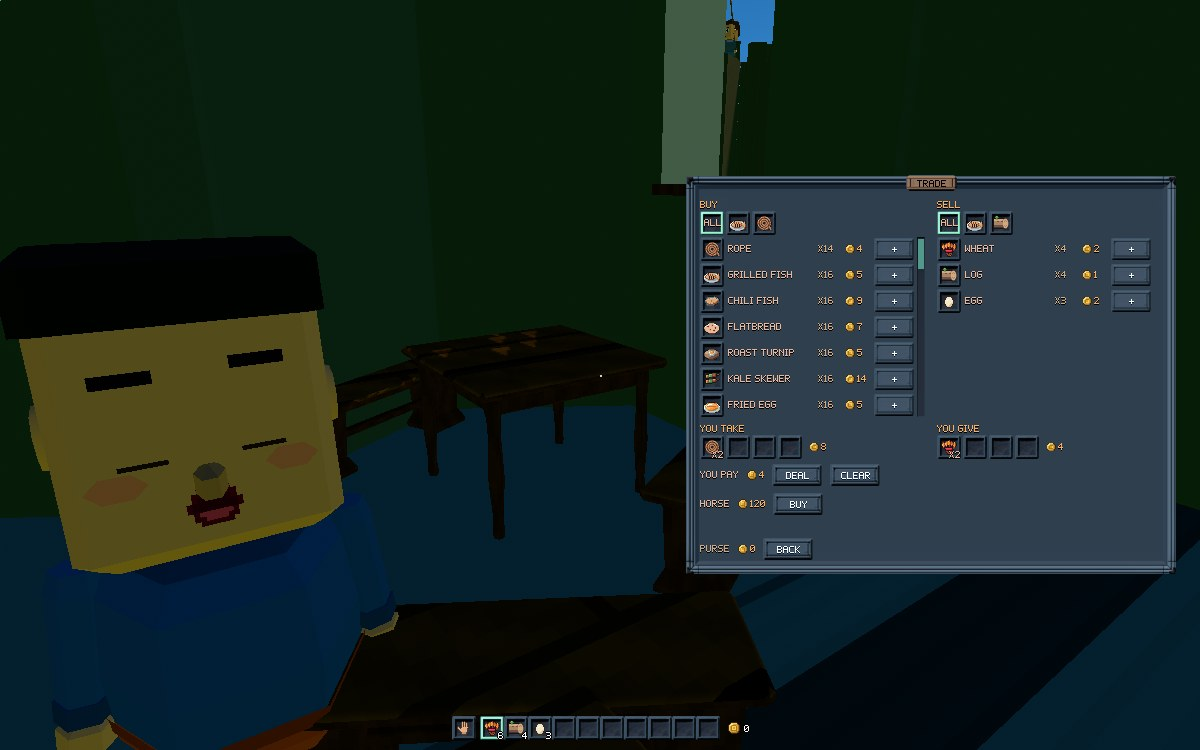
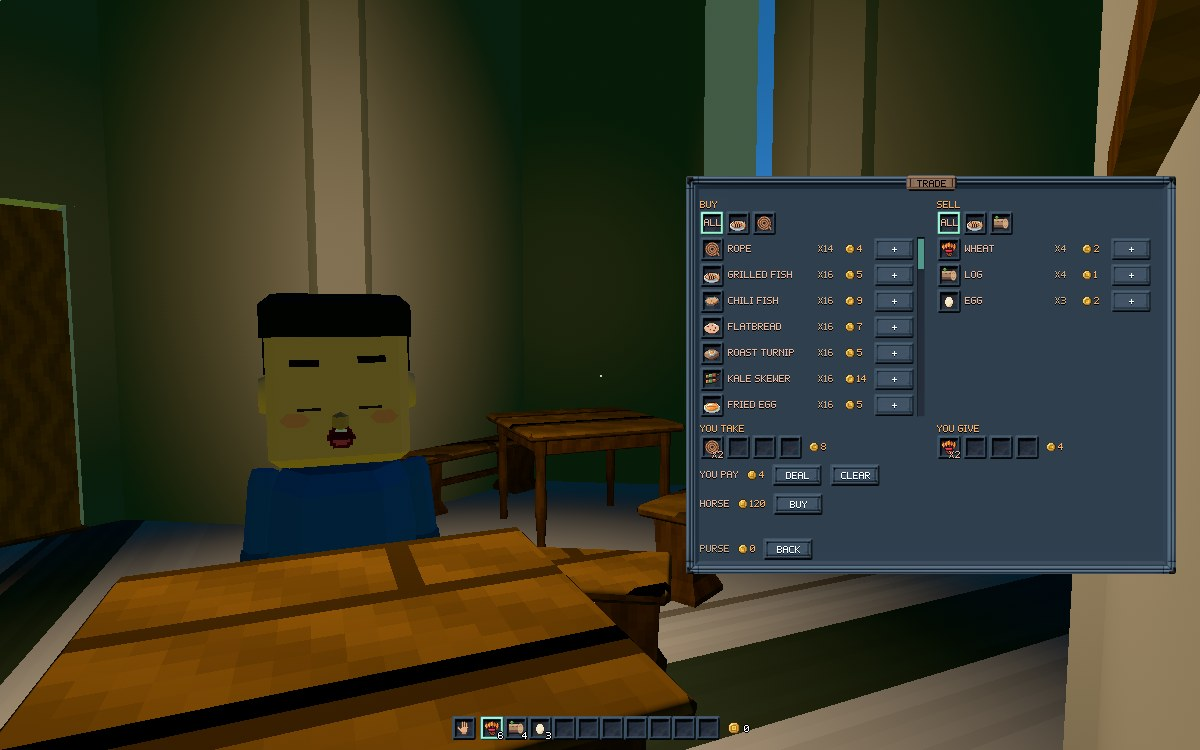
townsfolk 37a framing, second pass: captures at a talking distance, by day and at nightfall
trade-framed.jpg retaken from about 2.7 m with the merchant in the middle of
the open space, trade-framed-night.jpg and talk-framed-night.jpg (a non-trade
NPC dialog) at 20:27 with the talk light on the merchant's face. Not at
22:30: from daylight 0.12 the townsfolk are in bed (furniture design 11a), so
there is no one at the stall. Lavapipe, no GPU; frame time not measured.

Claude-Session: https://claude.ai/code/session_01RGPQut43HZDbTofZKV6sxg

diff --git a/openspec/changes/townsfolk/tasks.md b/openspec/changes/townsfolk/tasks.md
@@ -104,7 +104,7 @@ towns mockup is on the roadmap (the owner, 2026-09-27).
 - [x] 12.5 Traders sell tools or not, per survey E1: answered 2026-11-22, no basic tools; enchanted tools and special weapons later (design 38c). Today's game already sells none.
 - [ ] 12.6 Traders' Tools shelf: enchanted tools and special weapons with their bonuses (such as +1 mining speed, +1 yield), per survey E1. Waits for a write-up of enchantments and weapons (weapons tie to survival, phase 4, `survival-mode`). Verify: that write-up exists and names the trader's stock.
 - [x] 12.7 Framing (owner, survey P1, 2026-11-24: "Move the camera so the merchant is on left, and the trade UI is on the right"; design 37a, framing): the Talk, Trade and Board panels sit on the right, and opening a talk turns the walker's look, eased over 0.25 s, so the townsperson stands in the centre of the left third. Verify: `talk::tests::the_talker_lands_in_the_left_third`, and the capture `docs/screenshots/townsfolk-economy/trade-framed.jpg`.
-- [x] 12.8 Framing, second pass (owner, 2026-11-24: "center the character between the left most edge of panel and left edge of the screen", "add some lights that fade in light the character a bit"; design 37a, framing, second pass): the townsperson centred in the open space left of the open panel, re-aimed when the panel changes, and a soft warm carried light on them that fades in and out with the talk. Verify: `talk::tests::the_talker_lands_in_the_open_space`, `talk::tests::the_talk_light_burns_only_while_a_talk_is_open`, and the captures `docs/screenshots/townsfolk-economy/trade-framed.jpg` and `trade-framed-night.jpg`, and the reeve's board framed the same way (`board-framed-night.jpg`); every NPC dialog one presentation (owner: "same presentation style for dialog boxes of any kind of interaction with npcs").
+- [x] 12.8 Framing, second pass (owner, 2026-11-24: "center the character between the left most edge of panel and left edge of the screen", "add some lights that fade in light the character a bit"; design 37a, framing, second pass): the townsperson centred in the open space left of the open panel, re-aimed when the panel changes, and a soft warm carried light on them that fades in and out with the talk. Verify: `talk::tests::the_talker_lands_in_the_open_space`, `talk::tests::the_talk_light_burns_only_while_a_talk_is_open`, and the captures `docs/screenshots/townsfolk-economy/trade-framed.jpg` and `trade-framed-night.jpg`, and the talk panel, a non-trade dialog, framed the same way (`talk-framed-night.jpg`); every NPC dialog one presentation (owner: "same presentation style for dialog boxes of any kind of interaction with npcs").
 
 
 ## 13. Roads by waypoints, gravel from a grinder and a mixer (added 2026-11-22: "building roads shjould be like a way point system ... to make gravel you need a grinder and mixer")

diff --git a/docs/screenshots/townsfolk-economy/README.md b/docs/screenshots/townsfolk-economy/README.md
@@ -81,7 +81,7 @@ Prices are design 37a's: derived values with the world's market folded in.
 | `trade-basket.jpg` | Two ropes in YOU TAKE (8 coins at the selling price) and two wheat in YOU GIVE (4 at the buying price): YOU PAY 4, half the price in goods. The rows count down what is left to put in a basket (wheat x4). |
 | `coins-hotbar.jpg` | Three wheat sold in one basket, DEAL, then BACK and BYE: the coin count beside the hotbar reads 6, the pack's wheat down to 3. |
 
-## Framing (`townsfolk` design 37a, framing; task 12.7; 2026-11-24)
+## Framing (`townsfolk` design 37a, framing; tasks 12.7 and 12.8; 2026-11-24)
 
 `ONLY=framed tools/capture_talk.sh`, lavapipe, no GPU: the look only, frame
 time not measured. The owner on survey P1: "Move the camera so the merchant
@@ -89,4 +89,6 @@ is on left, and the trade UI is on the right."
 
 | Shot | What it shows |
 | --- | --- |
-| `trade-framed.jpg` | The barter of `trade-basket.jpg` with the framing: the panel right-aligned 24 px off the edge, and F turned the walker's own look (eased over 0.25 s) so the merchant's aim point, 1.2 m over the feet, is at the centre of the left third at the screen's middle height. The capture spot stands the walker 1.6 m off, so the merchant fills the left third; from further off they stand smaller in it. |
+| `trade-framed.jpg` | The barter of `trade-basket.jpg` with the framing's second pass (task 12.8, owner: "center the character between the left most edge of panel and left edge of the screen"): the panel right-aligned 24 px off the edge, and F turned the walker's own look (eased over 0.25 s) so the merchant's aim point, 1.2 m over the feet, is half way between the screen's left edge and the panel's, at the middle height. From about 2.7 m. The talk light is on their face (faint by day). |
+| `trade-framed-night.jpg` | The same at nightfall (`NIGHT=20.45`, the lamps lit; at 22:30 the merchant is in bed, `furniture` design 11a): the warm talk light (level 7, 4 m reach) lights the merchant's face as a carried torch would. |
+| `talk-framed-night.jpg` | A non-trade NPC dialog, the talk panel, framed the same way (owner: "same presentation style for dialog boxes of any kind of interaction with npcs"): the narrower panel's open space is wider, so the merchant stands further right, in its middle. |

diff --git a/openspec/changes/townsfolk/design.md b/openspec/changes/townsfolk/design.md
@@ -394,8 +394,16 @@ that fade in light the character a bit, thatd be nice". The plan:
   runs the light's system in an app and finds the light in the carried list
   while a talk is open, rising, and gone once it has faded after the close.
   Captures (lavapipe, no GPU): `trade-framed.jpg` retaken at a talking
-  distance of about 2.7 m, `trade-framed-night.jpg` at 22:30, and the
-  reeve's board, a non-trade dialog, as `board-framed-night.jpg`.
+  distance of about 2.7 m, `trade-framed-night.jpg` at nightfall, and the
+  talk panel itself, a non-trade dialog, as `talk-framed-night.jpg`. Not at
+  22:30 as first planned: from daylight 0.12 (about 20:32 at Linenleigh on
+  day 0) every townsperson but a watch goes to bed (`furniture` design 11a),
+  so at 22:30 there is no merchant at the stall to talk to. The night shots
+  are at 20:27 (`--time 20.45`), the sun about two degrees under the
+  horizon and the dusk lamps lit, the latest the merchant keeps the stall.
+  The reeve's board was tried from 2.7 m too, but stepping back from the
+  reeve puts a wall between them and the eye on today's town, so the
+  non-trade capture is the merchant's own talk panel.
 
 **10a. Roads as they are built (2026-11-21, on "People approved. Build.phase
 3").** The look was built in the towns mockup first (M15's Roads tab,
